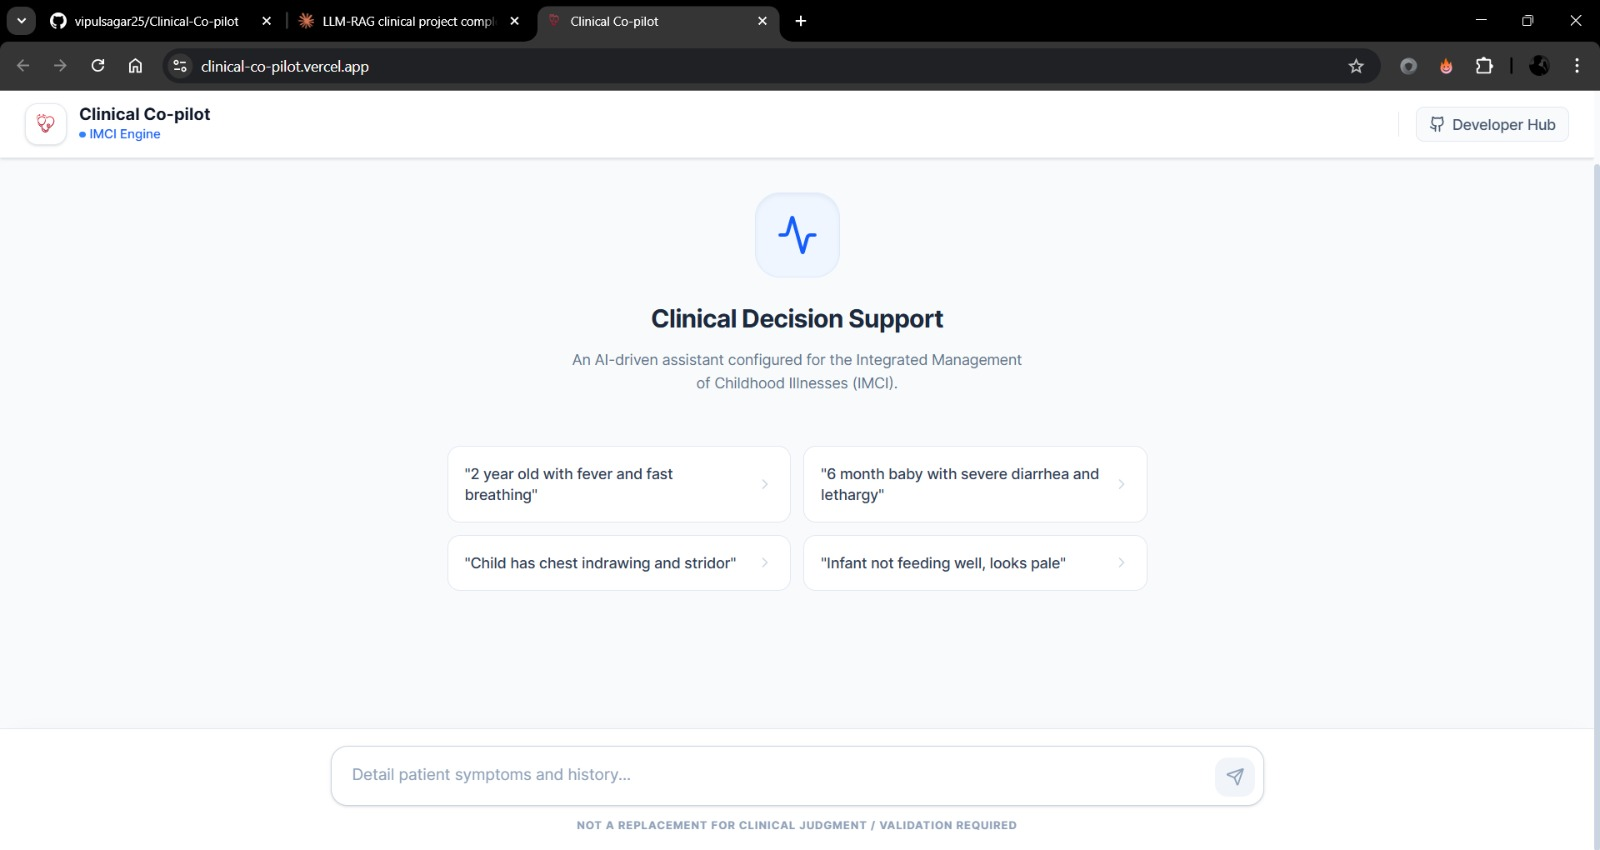
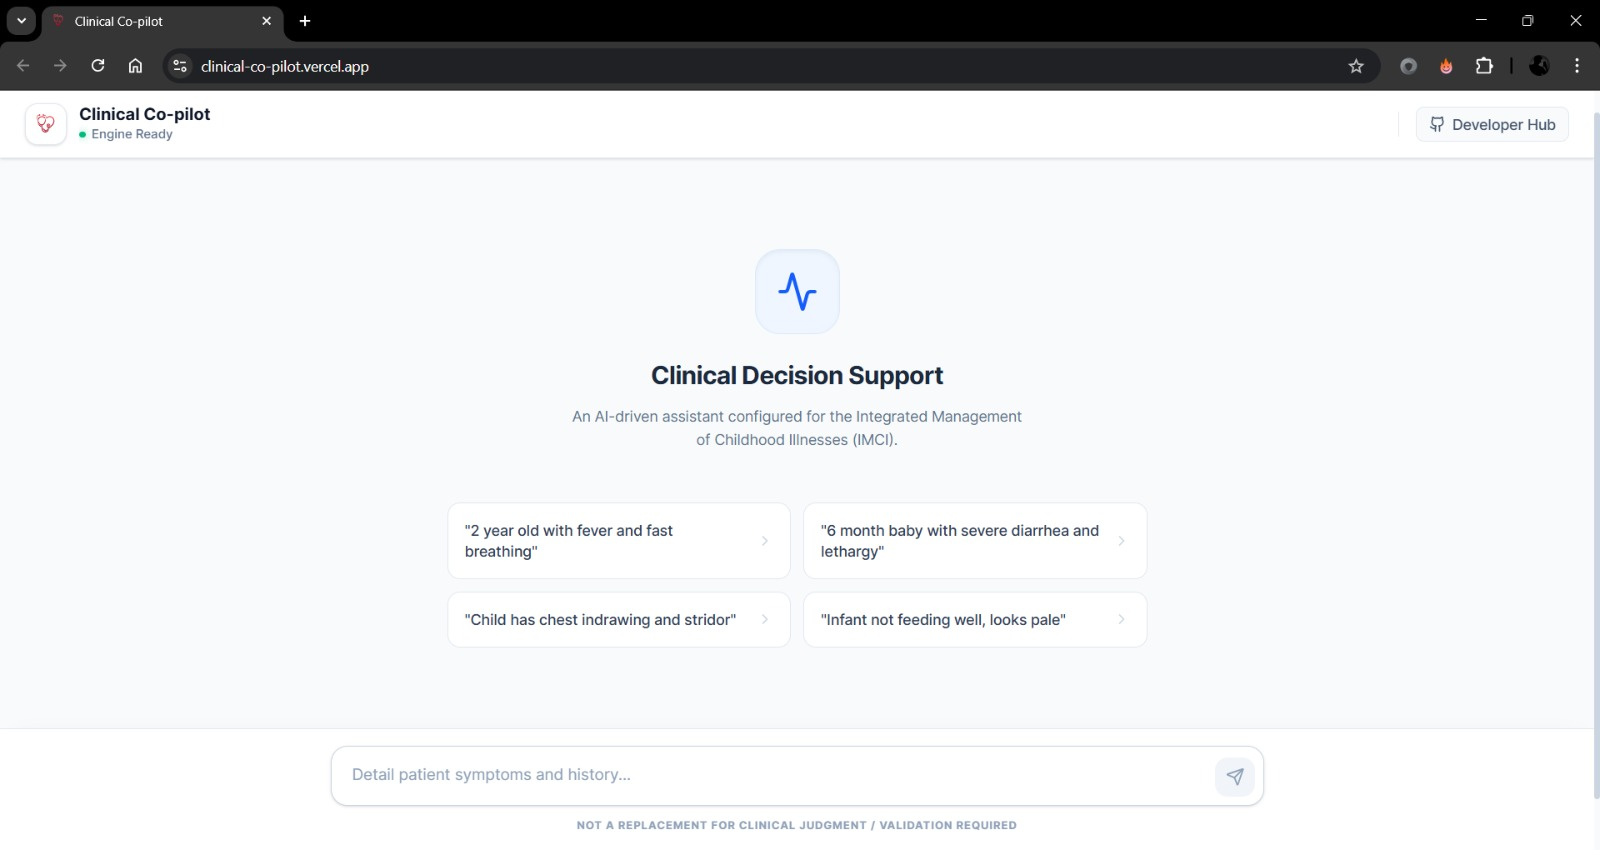
docs: finalize vertical screenshot layout in README

diff --git a/README.md b/README.md
@@ -8,9 +8,14 @@
 
 ## 📱 App Showcase
 
-| Welcome Screen | Clinical Assessment | RAG Evidence & Citations |
-|---|---|---|
-| ![Welcome Screen](img_readme/one.jpeg) | ![Clinical Assessment](img_readme/two.jpeg) | ![Citations](img_readme/third.jpeg) |
+### 🏠 Welcome Screen
+![Welcome Screen](img_readme/one.jpeg)
+
+### 🏥 Clinical Assessment & Risk Level
+![Clinical Assessment](img_readme/two.jpeg)
+
+### 📚 RAG Evidence & Citations
+![Citations](img_readme/third.jpeg)
 
 ---
 
